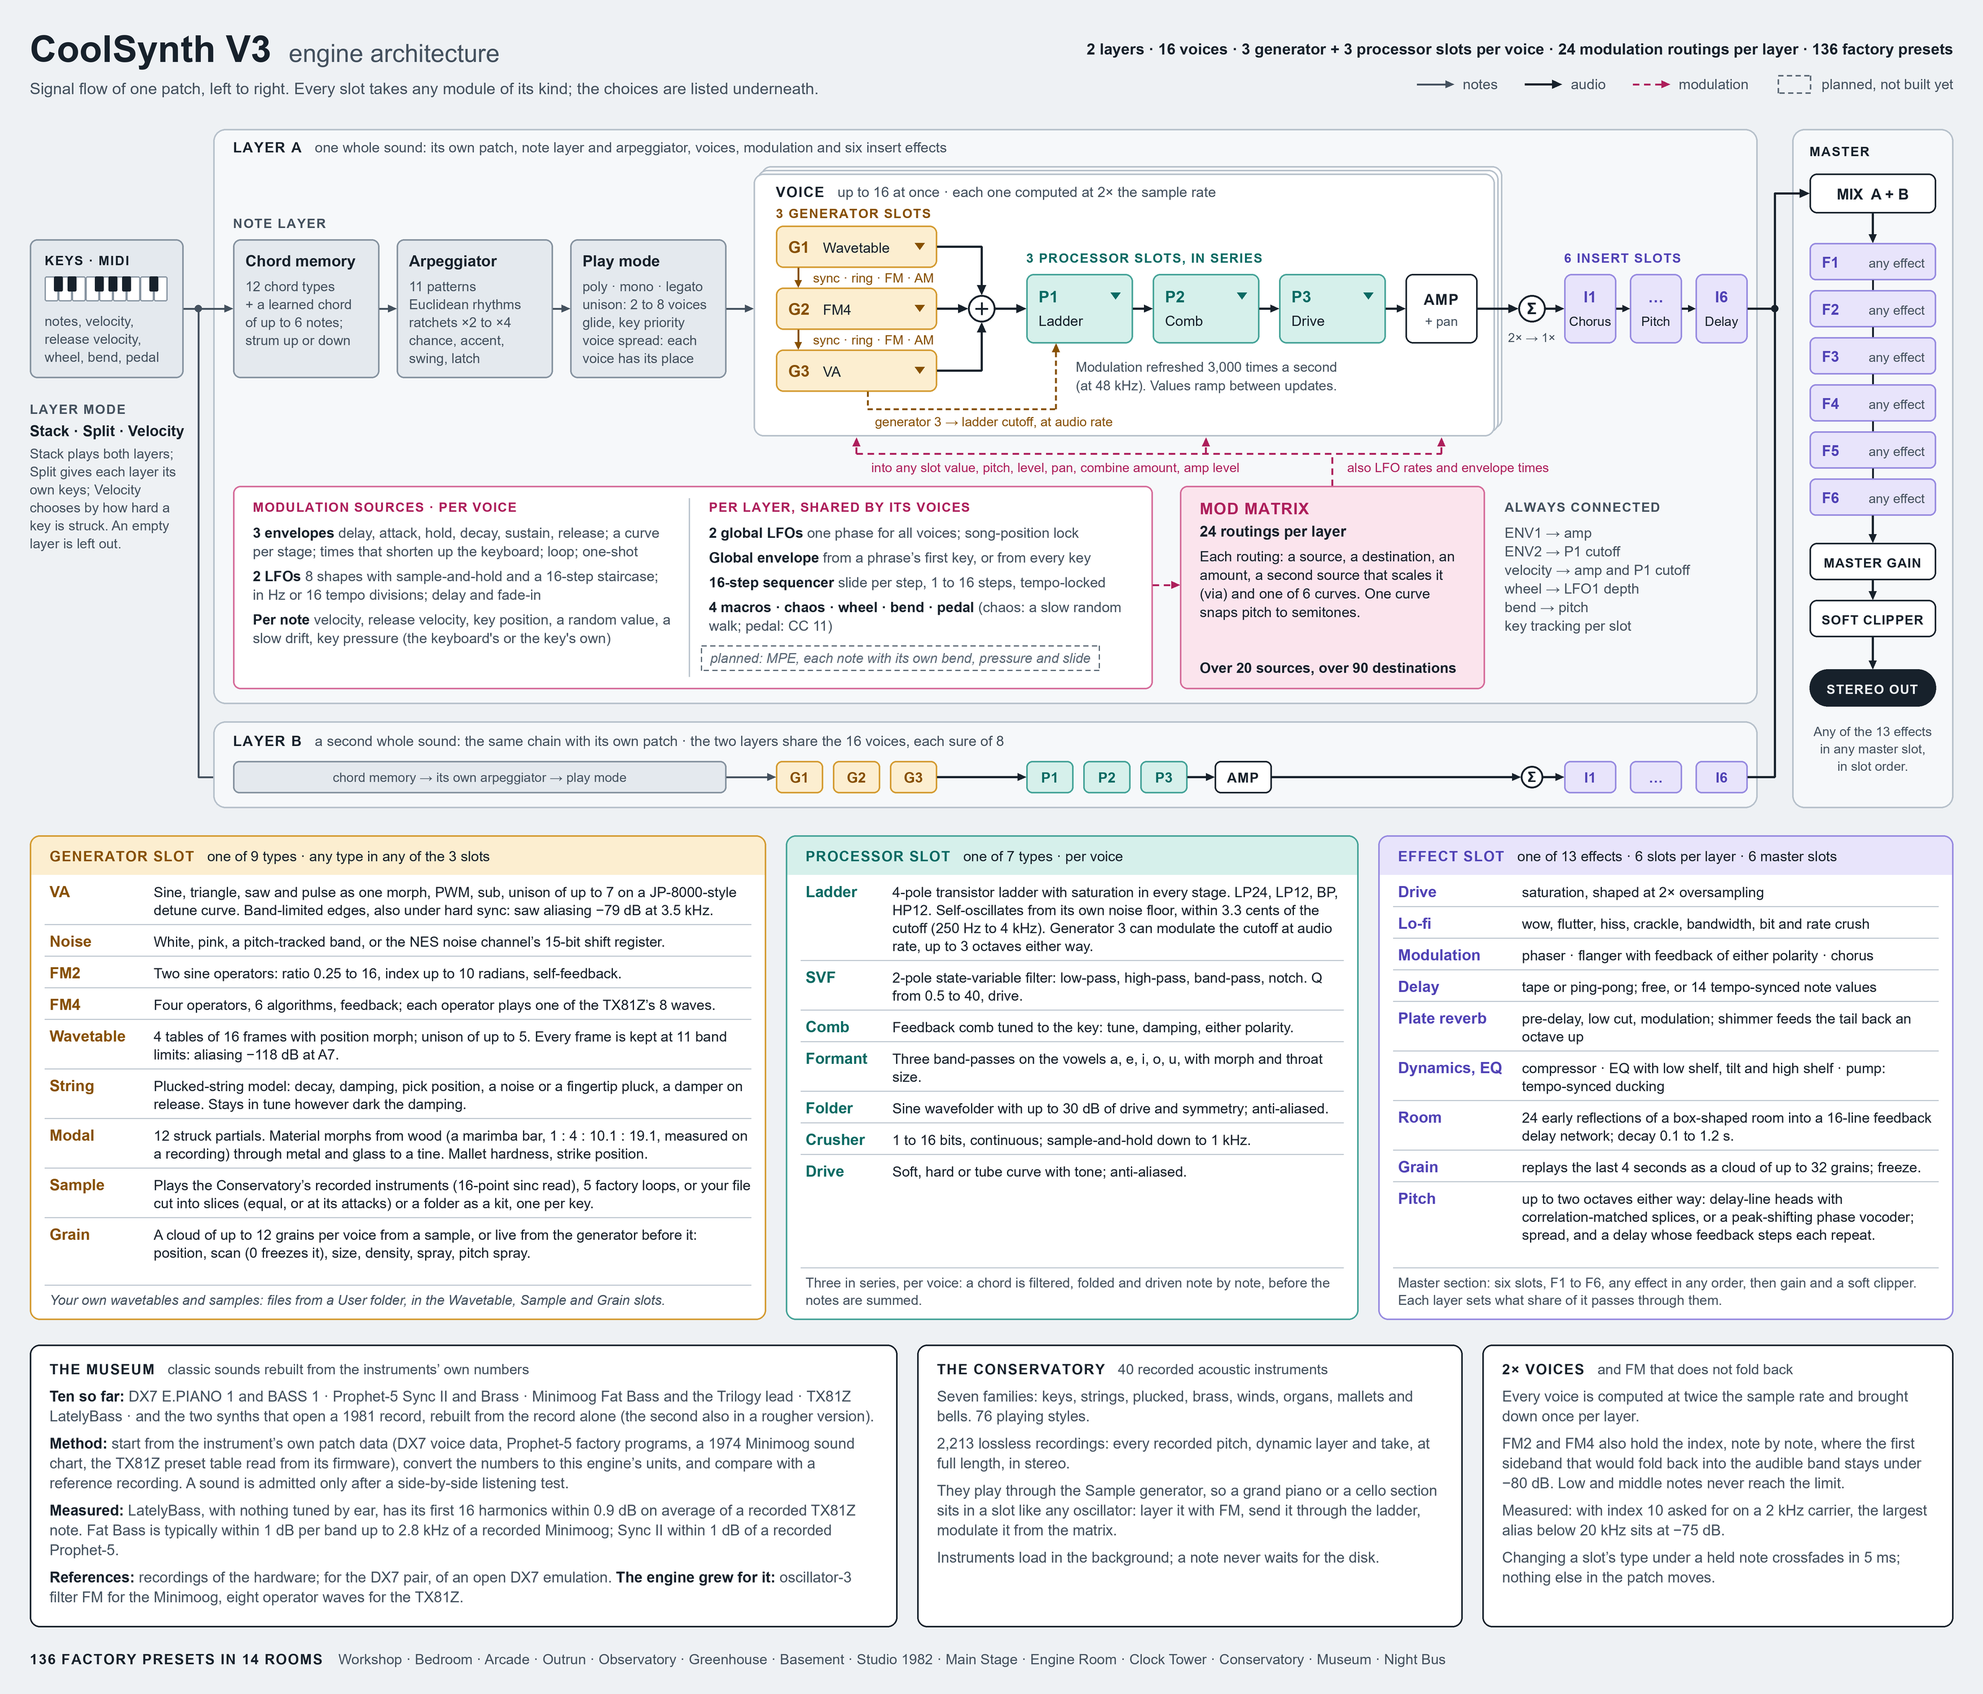
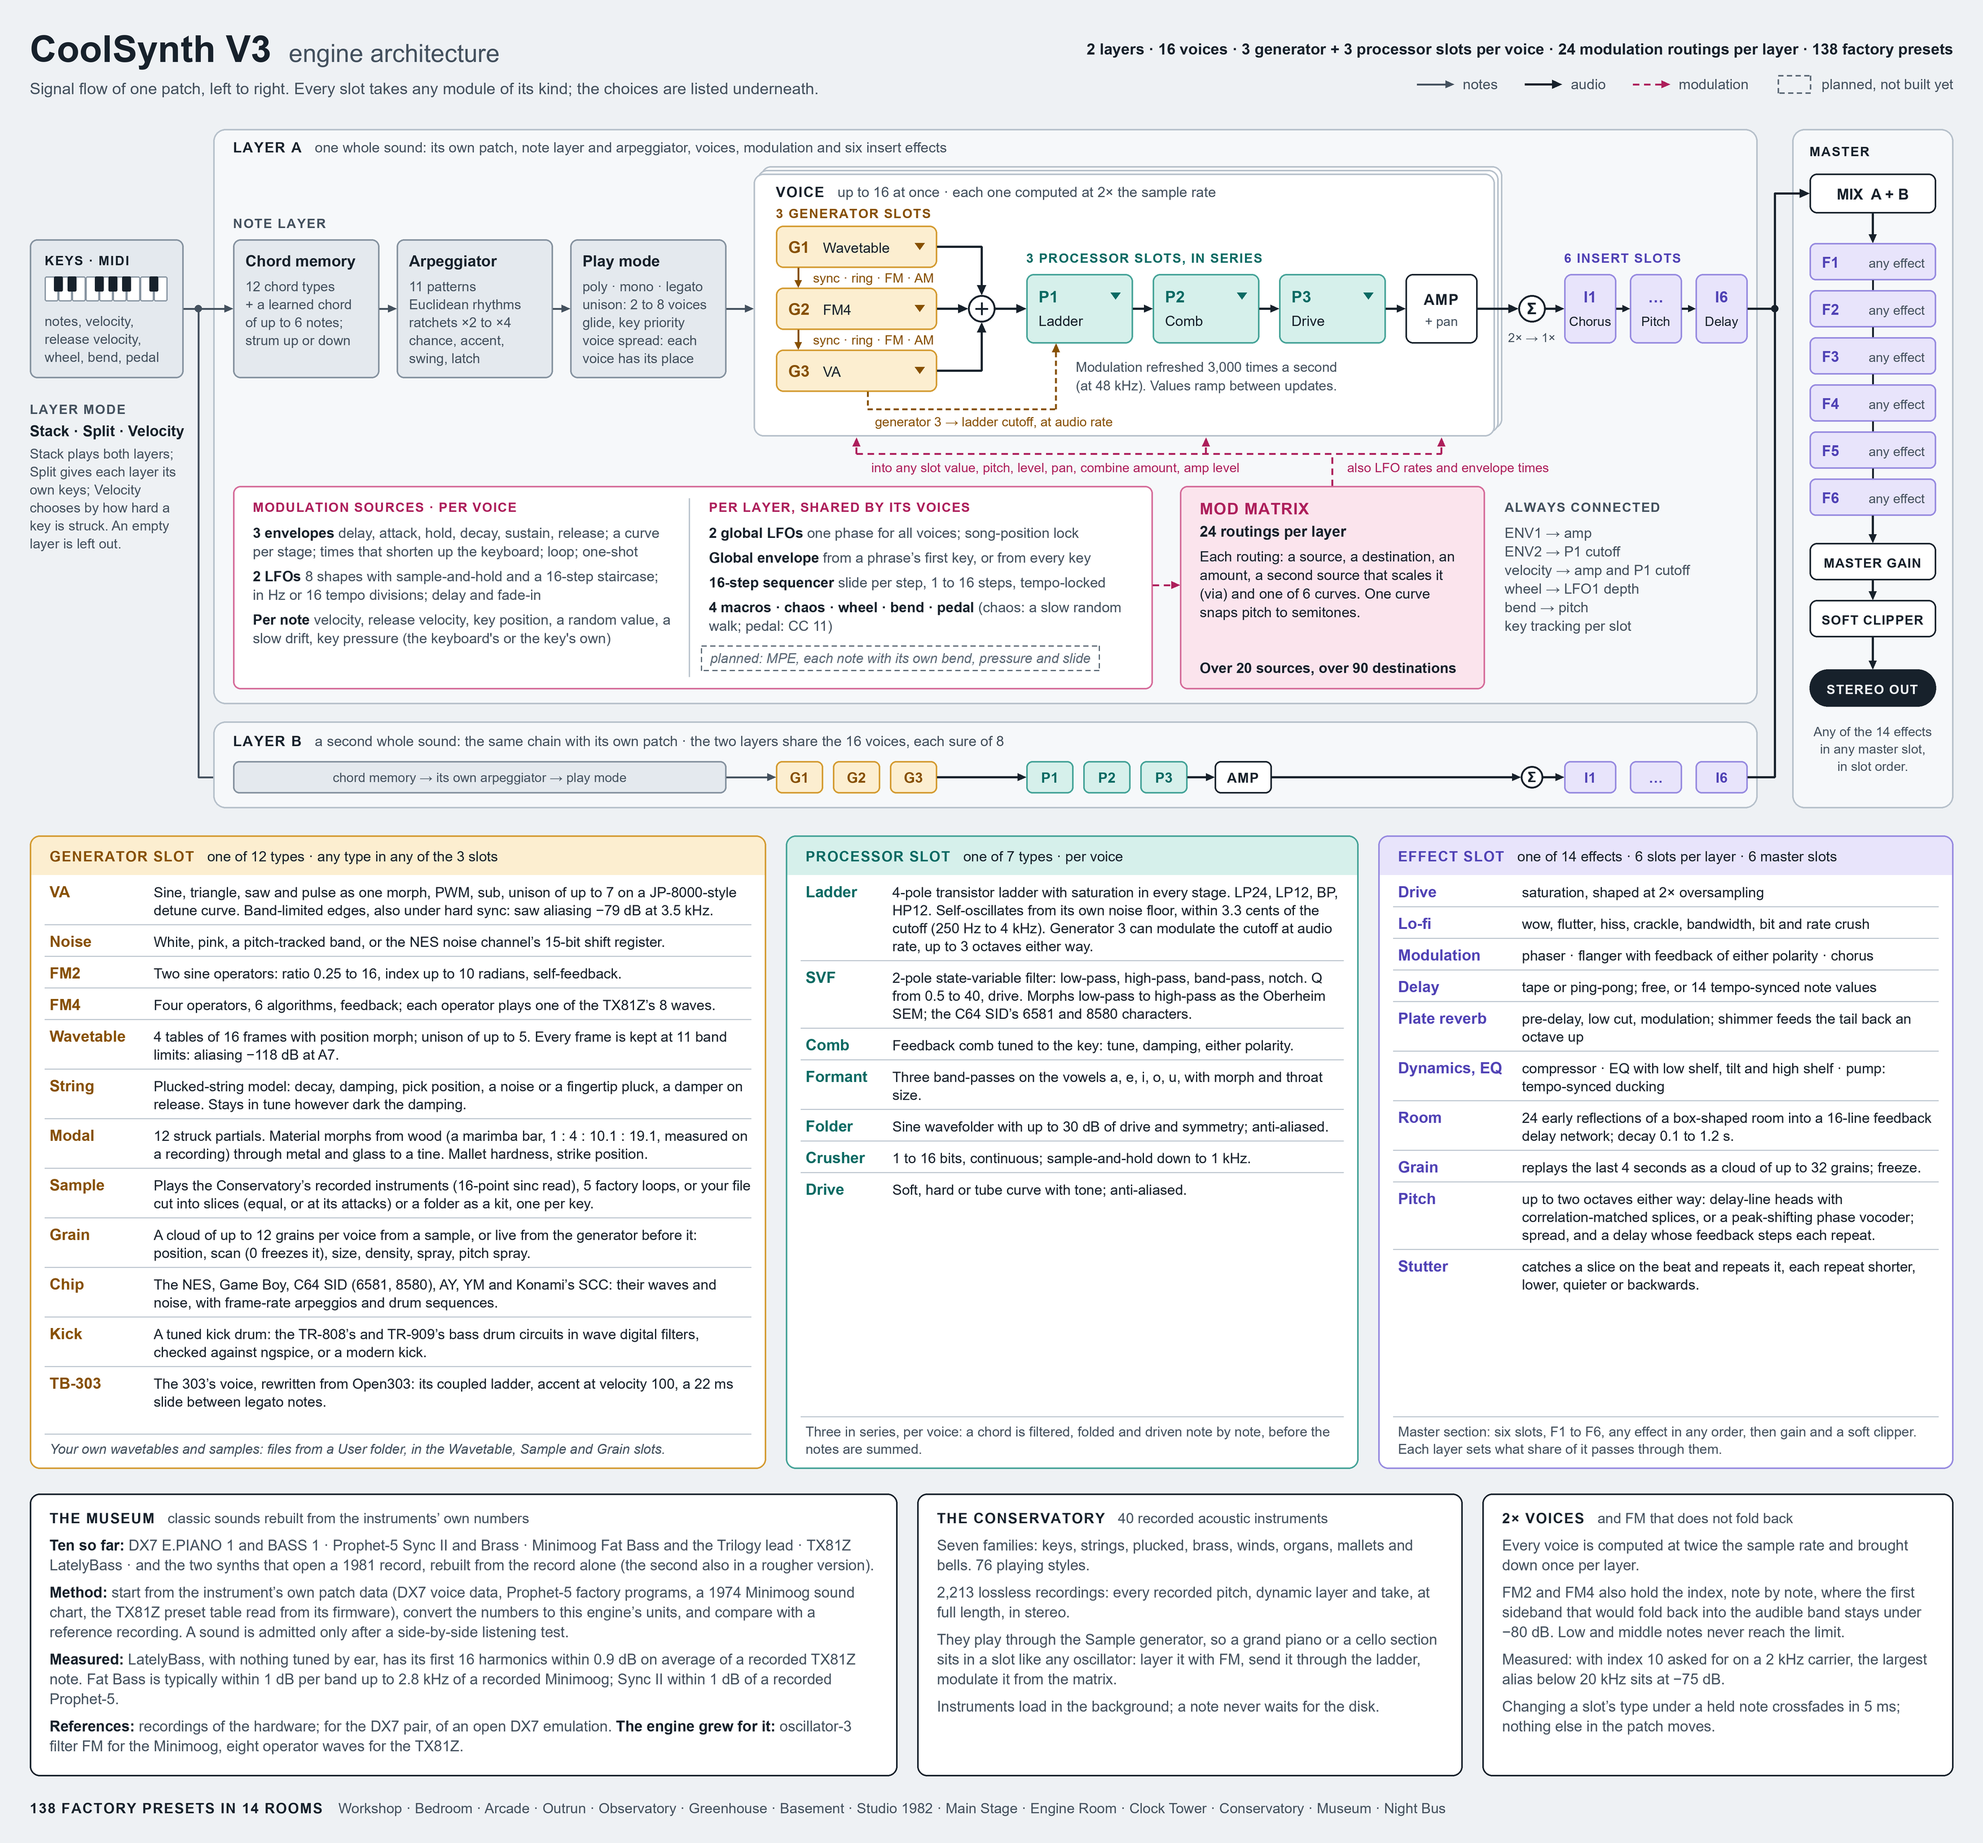
Docs caught up with the work since 0.4.0
The engine map lists the Chip, Kick and TB-303 generators, the SVF's SEM
morph and SID characters, and Stutter, with today's counts (12 generator
types, 14 effects, 138 presets). The README names JUCE 9 and its licence;
the architecture page counts the generators right and points to the DAW
scripts, the listening page and the kick references; the controllers
design says the FL, Ableton and Bitwig scripts link as they now do.

diff --git a/tools/site/build_engine_map.py b/tools/site/build_engine_map.py
@@ -181,7 +181,7 @@ c.text(24, 50, [R("CoolSynth V3", w=700, f="ink", s=30), R("engine architecture"
 c.text(24, 76, "Signal flow of one patch, left to right. Every slot takes any module of its kind; "
                "the choices are listed underneath.", size=13, fill="ink2")
 c.text(1576, 44, "2 layers · 16 voices · 3 generator + 3 processor slots per voice · "
-                 "24 modulation routings per layer · 136 factory presets",
+                 "24 modulation routings per layer · 138 factory presets",
        size=12.5, weight=600, fill="ink", anchor="end")
 
 legend = [("note", "notes"), ("audio", "audio"), ("mod", "modulation"), ("planned", "planned, not built yet")]
@@ -439,7 +439,7 @@ c.text(CMID, 504, "SOFT CLIPPER", size=10.5, weight=700, fill="ink", anchor="mid
 c.arrow([(CMID, 514), (CMID, 540)], head=7)
 c.rect(1460, 540, 102, 30, "ink", None, rx=15, sw=0)
 c.text(CMID, 560, "STEREO OUT", size=10.5, weight=700, fill="bg", anchor="middle", ls=0.6)
-for j, s in enumerate(["Any of the 13 effects", "in any master slot,", "in slot order."]):
+for j, s in enumerate(["Any of the 14 effects", "in any master slot,", "in slot order."]):
     c.text(CMID, 594 + j * 14, s, size=10.5, fill="ink2", anchor="middle", maxw=CW - 8)
 
 # =============================================================== the three type lists
@@ -498,12 +498,19 @@ GEN_ROWS = [
                "cut into slices (equal, or at its attacks) or a folder as a kit, one per key."),
     ("Grain", "A cloud of up to 12 grains per voice from a sample, or live from the generator before it: "
               "position, scan (0 freezes it), size, density, spray, pitch spray."),
+    ("Chip", "The NES, Game Boy, C64 SID (6581, 8580), AY, YM and Konami’s SCC: their waves and noise, with "
+             "frame-rate arpeggios and drum sequences."),
+    ("Kick", "A tuned kick drum: the TR-808’s and TR-909’s bass drum circuits in wave digital filters, checked "
+             "against ngspice, or a modern kick."),
+    ("TB-303", "The 303’s voice, rewritten from Open303: its coupled ladder, accent at velocity 100, a 22 ms "
+               "slide between legato notes."),
 ]
 PROC_ROWS = [
     ("Ladder", "4-pole transistor ladder with saturation in every stage. LP24, LP12, BP, HP12. Self-oscillates "
                "from its own noise floor, within 3.3 cents of the cutoff (250 Hz to 4 kHz). Generator 3 can "
                "modulate the cutoff at audio rate, up to 3 octaves either way."),
-    ("SVF", "2-pole state-variable filter: low-pass, high-pass, band-pass, notch. Q from 0.5 to 40, drive."),
+    ("SVF", "2-pole state-variable filter: low-pass, high-pass, band-pass, notch. Q from 0.5 to 40, drive. "
+            "Morphs low-pass to high-pass as the Oberheim SEM; the C64 SID’s 6581 and 8580 characters."),
     ("Comb", "Feedback comb tuned to the key: tune, damping, either polarity."),
     ("Formant", "Three band-passes on the vowels a, e, i, o, u, with morph and throat size."),
     ("Folder", "Sine wavefolder with up to 30 dB of drive and symmetry; anti-aliased."),
@@ -522,9 +529,10 @@ FX_ROWS = [
     ("Grain", "replays the last 4 seconds as a cloud of up to 32 grains; freeze."),
     ("Pitch", "up to two octaves either way: delay-line heads with correlation-matched splices, or a "
               "peak-shifting phase vocoder; spread, and a delay whose feedback steps each repeat."),
+    ("Stutter", "catches a slice on the beat and repeats it, each repeat shorter, lower, quieter or backwards."),
 ]
 panels = [
-    dict(x=24, w=594, kind="gen", head="GENERATOR SLOT", sub="one of 9 types · any type in any of the 3 slots",
+    dict(x=24, w=594, kind="gen", head="GENERATOR SLOT", sub="one of 12 types · any type in any of the 3 slots",
          rows=GEN_ROWS, namew=84,
          note=[R("Your own wavetables and samples: files from a User folder, in the Wavetable, Sample and Grain slots.")], italic=True),
     dict(x=634, w=462, kind="proc", head="PROCESSOR SLOT", sub="one of 7 types · per voice",
@@ -532,7 +540,7 @@ panels = [
          note=[R("Three in series, per voice: a chord is filtered, folded and driven note by note, before the "
                  "notes are summed.")],
          italic=False),
-    dict(x=1112, w=464, kind="fx", head="EFFECT SLOT", sub="one of 13 effects · 6 slots per layer · 6 master slots",
+    dict(x=1112, w=464, kind="fx", head="EFFECT SLOT", sub="one of 14 effects · 6 slots per layer · 6 master slots",
          rows=FX_ROWS, namew=100,
          note=[R("Master section: six slots, F1 to F6, any effect in any order, then gain and a soft clipper. "
                  "Each layer sets what share of it passes through them.")],
@@ -616,7 +624,7 @@ for cd in cards:
 
 # =============================================================== the rooms
 ROOM_Y = CARD_Y + card_h + 30
-c.text(24, ROOM_Y, [R("136 FACTORY PRESETS IN 14 ROOMS", w=700, f="ink", ls=0.8),
+c.text(24, ROOM_Y, [R("138 FACTORY PRESETS IN 14 ROOMS", w=700, f="ink", ls=0.8),
                     R("Workshop · Bedroom · Arcade · Outrun · Observatory · Greenhouse · Basement · Studio 1982 · "
                       "Main Stage · Engine Room · Clock Tower · Conservatory · Museum · Night Bus", f="ink2", dx=12)],
        size=11.5, maxw=1552)
@@ -723,8 +731,8 @@ ARIA = ("CoolSynth V3 engine architecture. Keys and MIDI feed two layers, each a
         "chord memory, its own arpeggiator and play mode; per voice three generator slots that can sync, ring, FM "
         "or AM one another, three processor slots in series and an amplifier; then six insert effects. Modulation "
         "sources and a 24-routing matrix feed the voice from below. Both layers are mixed into six master effect "
-        "slots, gain, soft clipper and stereo out. Three lists give the 9 generator types, 7 processor types "
-        "and 13 effects a slot can hold; three notes describe the Museum, the Conservatory and 2x voices.")
+        "slots, gain, soft clipper and stereo out. Three lists give the 12 generator types, 7 processor types "
+        "and 14 effects a slot can hold; three notes describe the Museum, the Conservatory and 2x voices.")
 
 svg_open_standalone = ('<svg xmlns="http://www.w3.org/2000/svg" viewBox="0 0 %d %d" width="%d" height="%d" '
                        'font-family="sans-serif" role="img" aria-label="%s">' % (W, H, W, H, escape(ARIA)))

diff --git a/docs/architecture.md b/docs/architecture.md
@@ -75,7 +75,7 @@ the sampled instruments and the player's own sounds to load.
 
 Per voice:
 
-1. **Three generator slots**, G1 to G3. Each holds any of 13 generator types (VA, Noise, FM2, FM4, Wavetable,
+1. **Three generator slots**, G1 to G3. Each holds any of 12 generator types (VA, Noise, FM2, FM4, Wavetable,
    String, Modal, Sample, Grain, Chip, Kick, TB-303). A generator can sync, ring-modulate, frequency-modulate or
    amplitude-modulate the next one. Chip (`ChipGenerator.h`, D231) plays the NES, Game Boy, SID, AY, YM and SCC
    with their frame tables (`docs/design/CHIP_GENERATOR.md`); Kick (`KickGenerator.h`, D232) is a tuned kick drum:
@@ -269,7 +269,7 @@ sources but no longer used.
 | `src/midi` | The controller map, ready setups and the computer's setup; the MiniLab 3 protocol; V2's mapping and the MIDI monitor, still used by the app's settings store |
 | `src/standalone` | The standalone app, its MIDI input and settings, the MiniLab driver |
 | `src/diagnostics` | The flight recorder and the audio thread's allocation alarm |
-| `resources` | The preset banks, the instrument catalogue, the controller profile, images |
+| `resources` | The preset banks, the instrument catalogue, the controller profile, the MiniLab scripts for Ableton, Bitwig and FL Studio, images |
 | `tests` | The test program's sources |
 | `tools` | The command-line tools and the Python scripts |
 
@@ -313,6 +313,10 @@ Rebuild `CoolSynthRender` and `CoolSynthPresetNormalizer` after any change to a 
 
 - `tools/audition` builds the listening pages and does the measuring and fitting behind the Museum and the
   Conservatory.
+- `tools/listening-pass` is a local page that sets each sound up in the running app, through its MCP server, and
+  plays it for the ear.
+- `tools/kick808` and `tools/kick909` render the kick circuits in ngspice, the references the Kick's models are
+  checked against.
 - `tools/release/package_library.py` packs the instrument library into one zip per family for download.
 - `tools/site/build_engine_map.py` draws the map at the top of this page.
 

diff --git a/README.md b/README.md
@@ -121,4 +121,4 @@ How the engine works is described in [docs/architecture.md](docs/architecture.md
 
 ## License
 
-CoolSynth's own code is MIT licensed (see `LICENSE`). It's built with [JUCE](https://juce.com) 8 under the free [Starter licence](https://juce.com/legal/juce-8-licence/). The sampled instruments come from Versilian Studios' VSCO 2 Community Edition and the Versilian Community Sample Library, both CC0. The TB-303 generator is rewritten from [Open303](https://github.com/RobinSchmidt/Open303) by Robin Schmidt, MIT licensed; its notice is in `THIRD_PARTY_NOTICES.txt`, which the installer ships beside `LICENSE`.
+CoolSynth's own code is MIT licensed (see `LICENSE`). It's built with [JUCE](https://juce.com) 9 under the free [Starter licence](https://juce.com/legal/juce-9-licence/). The sampled instruments come from Versilian Studios' VSCO 2 Community Edition and the Versilian Community Sample Library, both CC0. The TB-303 generator is rewritten from [Open303](https://github.com/RobinSchmidt/Open303) by Robin Schmidt, MIT licensed; its notice is in `THIRD_PARTY_NOTICES.txt`, which the installer ships beside `LICENSE`.

diff --git a/docs/design/CONTROLLERS.md b/docs/design/CONTROLLERS.md
@@ -61,7 +61,7 @@ Keeping the pads off the DAW track, in three layers:
 
 - In the plugin, every message the driver owns is dropped from the DAW's input: the DAW program's knob, fader, encoder and Shift controllers, and pad notes 36-51 on channel 10. Exactly, by message, not by timing.
 - Where the DAW merges channels (Ableton), CoolSynth tells the player once to set the track's MIDI input to channel 1: the keys play on channel 1 and the pads on channel 10.
-- The FL Studio and Ableton scripts stay as an optional extra. The FL script must link to the MiniLab by itself; on this computer FL had fallen back to its generic controller, which has to be fixed.
+- The FL Studio, Ableton and Bitwig scripts take the pads off the track in those DAWs. FL and Live link theirs to the MiniLab by themselves (D246, D247); in Bitwig ours is chosen once in place of Bitwig's own (D249).
 
 With the driver switched Off:
 
